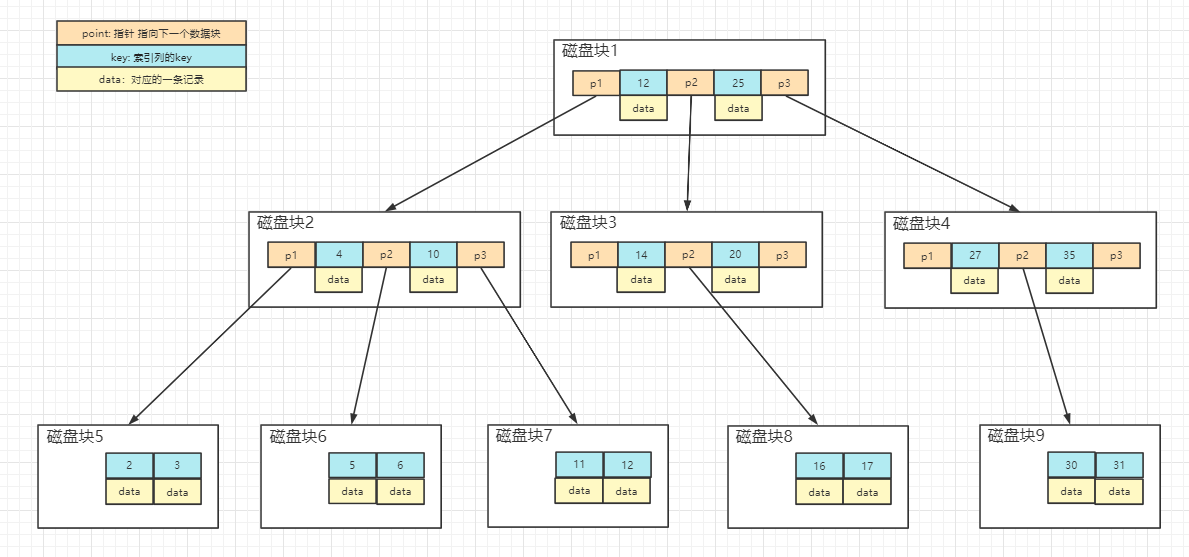
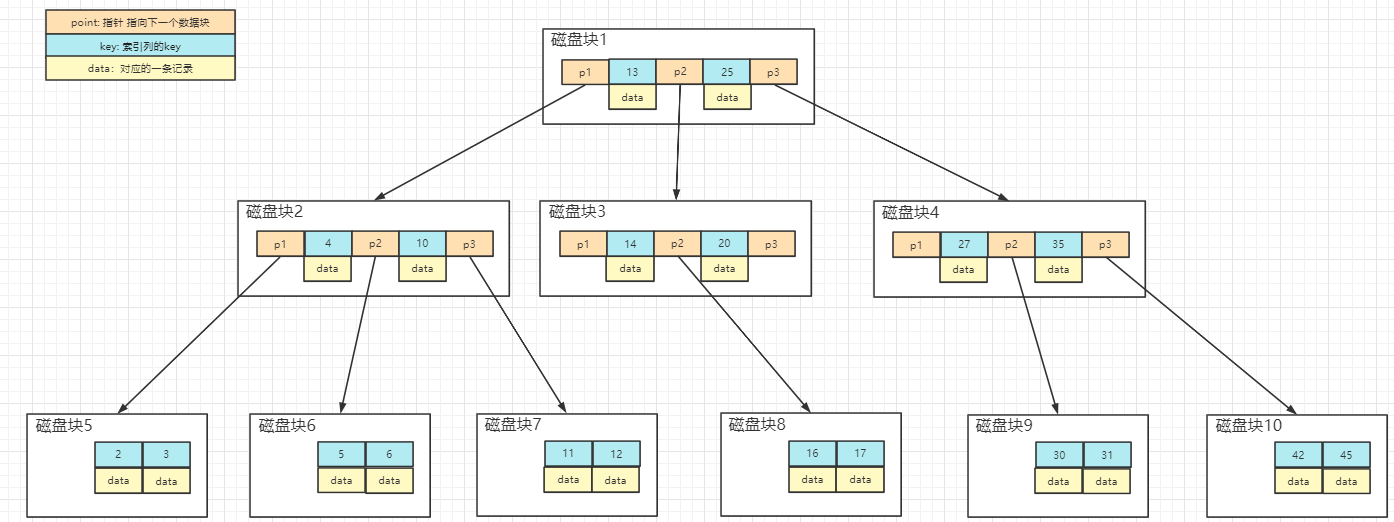
索引

diff --git a/knowledge/src/main/java/mysql/索引.md b/knowledge/src/main/java/mysql/索引.md
@@ -20,11 +20,29 @@ InnoDB和MYISAM索引底层实现的数据结构都是B+树，为什么要选择
 
 - B树 
   谈B+树之前我们可以先了解一下B树，看一下B树相对于二叉树有什么优势，而又有那些问题所以让存储引擎最终选择了B+树
-  
-   ![B树](../../img/mysql/B树.PNG)
  
-  1. 
-    
+  1. 相比于二叉树，B树可以有多个孩子节点，且每个孩子节点是一个特殊的数组，或者叫做由多个数据节点做成的超级节点。
+  每个非叶子节点都包含三类数据：    1. 指针数据，指向某个磁盘块 2. key，这个是索引列的值，B树/B+树是根据索引来构建的。 3. 数据，对应记录的值。
+  2. B树的叶子节点存放的都是数据，没有指针。当定位到叶子节点的时候，要么找到数据返回，要么数据不存在找不到。   
+
+  ![B树](../../img/mysql/B树.PNG)
+
+  实例图说明：  
+  每个节点占用一个磁盘块，每个磁盘块上包括三个指针和两个升序排列的关键字。指针存储的是子节点所在的磁盘块的地址，两个关键词划分三个范围。
+  范围域对应三个指针。以根节点为例，两个关键字12，25可以划分为`小于12`,`大于12且小于25`以及`大于25`。  
+  查找关键字12的过程如下：  
+  1. 通过根节点找到磁盘块1，读入内存（第一次磁盘IO操作）
+  2. 比较关键字12与13的关系，得到12可能在磁盘块2上,对应p1指针。
+  3. 通过磁盘块的p1找到磁盘块2，读入内存 （第二次磁盘IO操作）
+  4. 比较关键字与4，10的关系，得到数据可能在磁盘块7上，对应p3指针。
+  5. 根据p3得到磁盘块7,读入内存 （第三次磁盘操作）
+  6. 从磁盘块7中找到关键字12,获取到对应的记录。
+  
+  缺点：这边有个关键性的问题，由于B树的非叶子节点上存储内容包括数据，由于OS有个机制叫做磁盘预读，可能为了读某条数据而把整个磁盘块的数据都读到内存中。
+  这样的话，假设每次磁盘预读一个块的数据，假设一个块是16K（可能是4K）,如果极端情况下，指针不占用存储空间，且一条记录（key+data）占用空间是1K，即
+  每个块上只包含`16`条数据，那么如果我们通过3次磁盘IO所能获取到的数据条数应该是多少呢。第一次磁盘IO，我们可以得到16条记录以及对应的16个指针域。
+  下一次磁盘IO基于16个指针域我们又可以获得`16*16=256`条记录。第三次磁盘IO我们可以选择的数据条数则成了`256*16=4096`条记录。所以可以遍历的条数
+  
 
     
    
